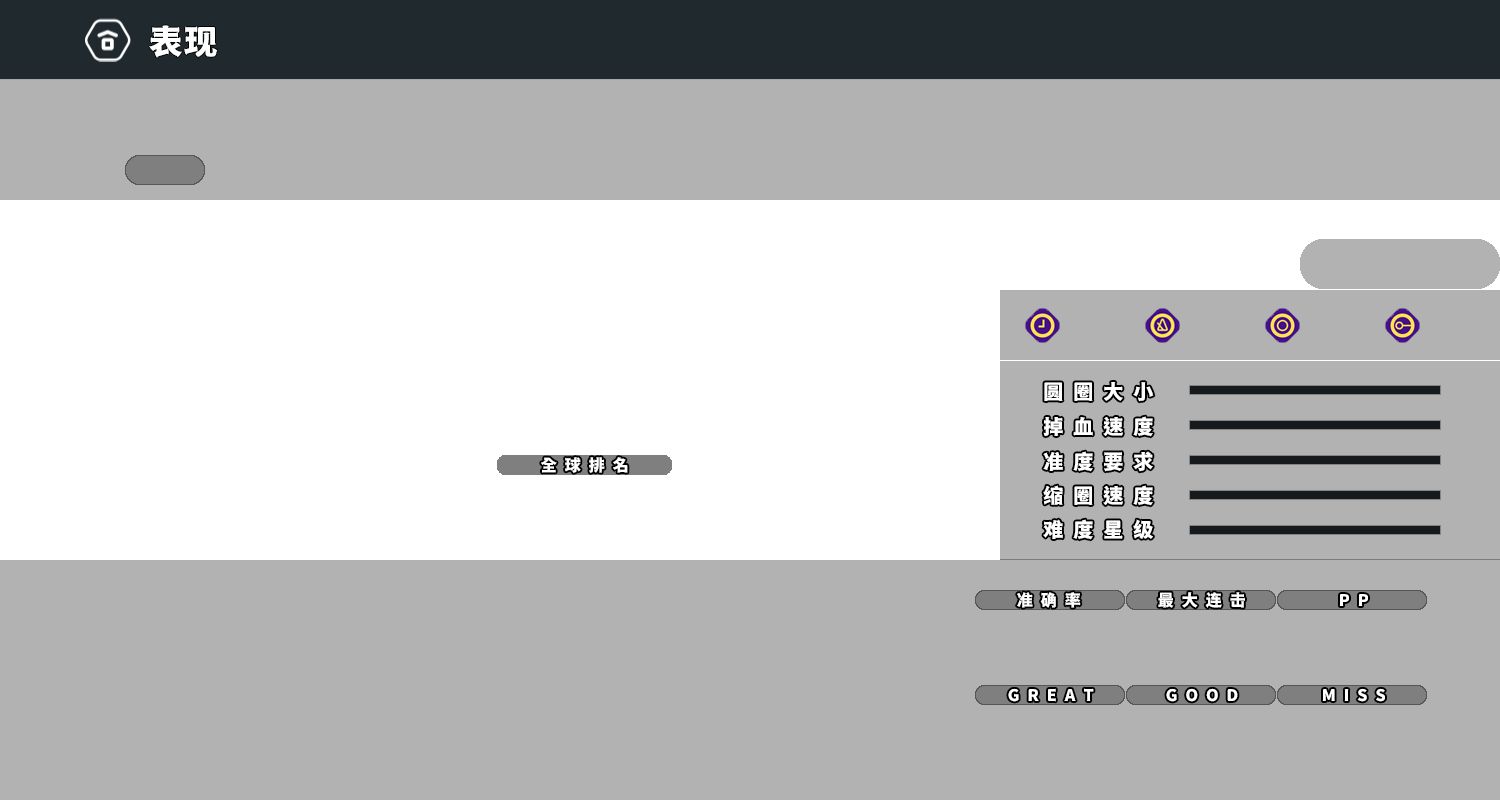
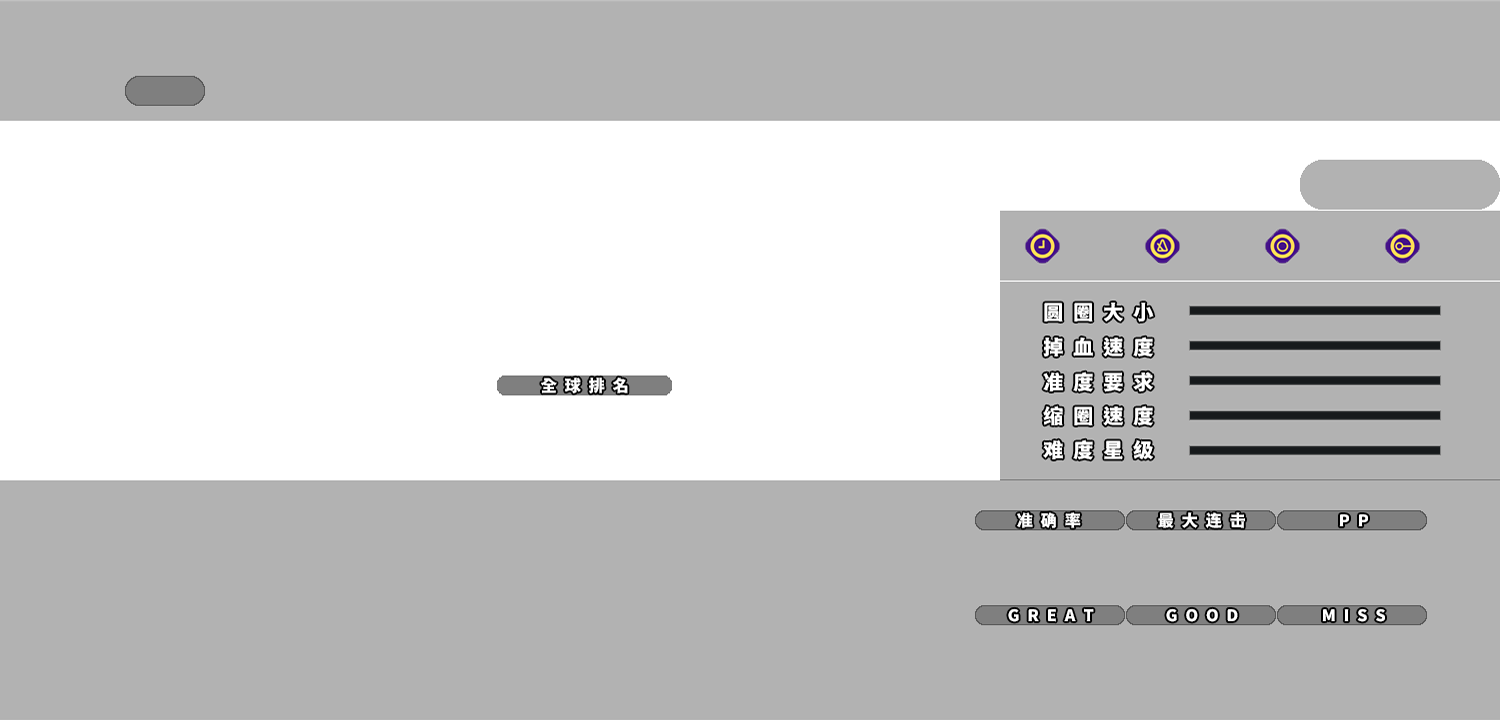
:sparkles: 去除pr、recent成绩图顶部大横条 (#19)
* 去除pr、recent成绩图顶部大横条

diff --git a/nonebot_plugin_osubot/draw/score.py b/nonebot_plugin_osubot/draw/score.py
@@ -67,7 +67,7 @@ async def draw_score(project: str,
     pp_info = cal_pp(score_info, str(osu.absolute()))
     if_pp, ss_pp = get_if_pp_ss_pp(score_info, str(osu.absolute()))
     # 新建图片
-    im = Image.new('RGBA', (1500, 800))
+    im = Image.new('RGBA', (1500, 720))
     # 获取cover并裁剪，高斯，降低亮度
     cover = re_map(osu)
     if cover == 'mapbg.png':
@@ -77,7 +77,7 @@ async def draw_score(project: str,
     cover_crop = crop_bg('BG', cover_path)
     cover_gb = cover_crop.filter(ImageFilter.GaussianBlur(1))
     cover_img = ImageEnhance.Brightness(cover_gb).enhance(2 / 4.0)
-    im.alpha_composite(cover_img, (0, 79))
+    im.alpha_composite(cover_img, (0, 0))
     # 获取成绩背景做底图
     bg = get_modeimage(FGM[score_info.mode])
     recent_bg = Image.open(bg).convert('RGBA')
@@ -85,11 +85,11 @@ async def draw_score(project: str,
     # 模式
     mode_bg = stars_diff(FGM[score_info.mode], pp_info.difficulty.stars)
     mode_img = mode_bg.resize((30, 30))
-    im.alpha_composite(mode_img, (75, 154))
+    im.alpha_composite(mode_img, (75, 74))
     # 难度星星
     stars_bg = stars_diff('stars', pp_info.difficulty.stars)
     stars_img = stars_bg.resize((23, 23))
-    im.alpha_composite(stars_img, (134, 158))
+    im.alpha_composite(stars_img, (134, 78))
     # mods
     if 'HD' in score_info.mods or 'FL' in score_info.mods:
         ranking = ['XH', 'SH', 'A', 'B', 'C', 'D', 'F']
@@ -99,7 +99,7 @@ async def draw_score(project: str,
         for mods_num, s_mods in enumerate(score_info.mods):
             mods_bg = osufile / 'mods' / f'{s_mods}.png'
             mods_img = Image.open(mods_bg).convert('RGBA')
-            im.alpha_composite(mods_img, (500 + 50 * mods_num, 240))
+            im.alpha_composite(mods_img, (500 + 50 * mods_num, 160))
     # 成绩S-F
     rank_ok = False
     for rank_num, i in enumerate(ranking):
@@ -115,7 +115,7 @@ async def draw_score(project: str,
         else:
             rank_bg = Image.open(rank_img).convert('RGBA').resize((48, 24))
             rank_ok = True
-        im.alpha_composite(rank_bg, (75, 243 + 39 * rank_num))
+        im.alpha_composite(rank_bg, (75, 163 + 39 * rank_num))
     # 成绩+acc
     im = draw_acc(im, score_info.accuracy, score_info.mode)
     # 头图
@@ -123,22 +123,22 @@ async def draw_score(project: str,
     headericon_gb = headericon_crop.filter(ImageFilter.GaussianBlur(1))
     headericon_img = ImageEnhance.Brightness(headericon_gb).enhance(2 / 4.0)
     headericon_d = draw_fillet(headericon_img, 15)
-    im.alpha_composite(headericon_d, (50, 591))
+    im.alpha_composite(headericon_d, (50, 511))
     # 头像
     icon_bg = Image.open(user_icon).convert('RGBA').resize((90, 90))
     icon_img = draw_fillet(icon_bg, 15)
-    im.alpha_composite(icon_img, (90, 606))
+    im.alpha_composite(icon_img, (90, 526))
     # 地区
     country = osufile / 'flags' / f'{score_info.user.country_code}.png'
     country_bg = Image.open(country).convert('RGBA').resize((58, 39))
-    im.alpha_composite(country_bg, (195, 606))
+    im.alpha_composite(country_bg, (195, 526))
     # 在线状态
     status = osufile / 'work' / ('on-line.png' if score_info.user.is_online else 'off-line.png')
     status_bg = Image.open(status).convert('RGBA').resize((45, 45))
-    im.alpha_composite(status_bg, (114, 712))
+    im.alpha_composite(status_bg, (114, 632))
     # supporter
     if score_info.user.is_supporter:
-        im.alpha_composite(SupporterBg.resize((40, 40)), (267, 606))
+        im.alpha_composite(SupporterBg.resize((40, 40)), (267, 526))
     # cs, ar, od, hp, stardiff
     mapdiff = [mapinfo.cs, mapinfo.drain, mapinfo.accuracy, mapinfo.ar, pp_info.difficulty.stars]
     for num, i in enumerate(mapdiff):
@@ -147,111 +147,111 @@ async def draw_score(project: str,
             color = (255, 204, 34, 255)
         diff_len = int(250 * i / 10) if i <= 10 else 250
         diff_len = Image.new('RGBA', (diff_len, 8), color)
-        im.alpha_composite(diff_len, (1190, 386 + 35 * num))
-        w_diff = DataText(1470, 386 + 35 * num, 20, f'{i:.1f}', Torus_SemiBold, anchor='mm')
+        im.alpha_composite(diff_len, (1190, 306 + 35 * num))
+        w_diff = DataText(1470, 306 + 35 * num, 20, f'{i:.1f}', Torus_SemiBold, anchor='mm')
         im = draw_text(im, w_diff)
     # 时长 - 滑条
     diff_info = calc_songlen(mapinfo.total_length), mapinfo.bpm, mapinfo.count_circles, mapinfo.count_sliders
     for num, i in enumerate(diff_info):
-        w_info = DataText(1070 + 120 * num, 325, 20, i, Torus_Regular, anchor='lm')
+        w_info = DataText(1070 + 120 * num, 245, 20, i, Torus_Regular, anchor='lm')
         im = draw_text(im, w_info, (255, 204, 34, 255))
     # 状态
-    w_status = DataText(1400, 264, 20, mapinfo.status.capitalize(), Torus_SemiBold, anchor='mm')
+    w_status = DataText(1400, 184, 20, mapinfo.status.capitalize(), Torus_SemiBold, anchor='mm')
     im = draw_text(im, w_status)
     # mapid
-    w_mapid = DataText(1425, 40, 27, f'Setid: {score_info.beatmap.beatmapset_id}  |  Mapid: {score_info.beatmap.id}',
+    w_mapid = DataText(1425, 89, 27, f'Setid: {score_info.beatmap.beatmapset_id}  |  Mapid: {score_info.beatmap.id}',
                        Torus_SemiBold, anchor='rm')
     im = draw_text(im, w_mapid)
     # 曲名
-    w_title = DataText(75, 118, 30, f'{mapinfo.beatmapset.title} | by {mapinfo.beatmapset.artist_unicode}',
+    w_title = DataText(75, 38, 30, f'{mapinfo.beatmapset.title} | by {mapinfo.beatmapset.artist_unicode}',
                        Torus_SemiBold, anchor='lm')
     im = draw_text(im, w_title)
     # 星级
-    w_diff = DataText(162, 169, 18, f'{pp_info.difficulty.stars:.1f}', Torus_SemiBold, anchor='lm')
+    w_diff = DataText(162, 89, 18, f'{pp_info.difficulty.stars:.1f}', Torus_SemiBold, anchor='lm')
     im = draw_text(im, w_diff)
     # 谱面版本，mapper
-    w_version = DataText(225, 169, 22, f'{mapinfo.version} | 谱面作者: {mapinfo.beatmapset.creator}', Torus_SemiBold,
+    w_version = DataText(225, 89, 22, f'{mapinfo.version} | 谱师: {mapinfo.beatmapset.creator}', Torus_SemiBold,
                          anchor='lm')
     im = draw_text(im, w_version)
     # 评价
-    w_rank = DataText(316, 387, 75, score_info.rank, Venera, anchor='mm')
+    w_rank = DataText(316, 307, 75, score_info.rank, Venera, anchor='mm')
     im = draw_text(im, w_rank)
     # 分数
-    w_score = DataText(498, 331, 75, f'{score_info.score:,}', Torus_Regular, anchor='lm')
+    w_score = DataText(498, 251, 75, f'{score_info.score:,}', Torus_Regular, anchor='lm')
     im = draw_text(im, w_score)
     # 玩家
-    w_played = DataText(498, 396, 18, '玩家:', Torus_SemiBold, anchor='lm')
+    w_played = DataText(498, 316, 18, '玩家:', Torus_SemiBold, anchor='lm')
     im = draw_text(im, w_played)
-    w_username = DataText(630, 396, 18, score_info.user.username, Torus_SemiBold, anchor='lm')
+    w_username = DataText(630, 316, 18, score_info.user.username, Torus_SemiBold, anchor='lm')
     im = draw_text(im, w_username)
     # 时间
-    w_date = DataText(498, 421, 18, '达成时间:', Torus_SemiBold, anchor='lm')
+    w_date = DataText(498, 341, 18, '达成时间:', Torus_SemiBold, anchor='lm')
     im = draw_text(im, w_date)
     old_time = datetime.strptime(score_info.created_at.replace('Z', ''), '%Y-%m-%dT%H:%M:%S')
     new_time = (old_time + timedelta(hours=8)).strftime('%Y-%m-%d %H:%M:%S')
-    w_time = DataText(630, 421, 18, new_time, Torus_SemiBold, anchor='lm')
+    w_time = DataText(630, 341, 18, new_time, Torus_SemiBold, anchor='lm')
     im = draw_text(im, w_time)
     # 全球排名
-    w_grank = DataText(583, 490, 24, grank, Torus_SemiBold, anchor='mm')
+    w_grank = DataText(583, 410, 24, grank, Torus_SemiBold, anchor='mm')
     im = draw_text(im, w_grank)
     # 左下玩家名
-    w_l_username = DataText(195, 670, 24, score_info.user.username, Torus_SemiBold, anchor='lm')
+    w_l_username = DataText(195, 590, 24, score_info.user.username, Torus_SemiBold, anchor='lm')
     im = draw_text(im, w_l_username)
     # 在线，离线
-    w_line = DataText(195, 732, 30, '在线' if score_info.user.is_online else '离线', Torus_SemiBold,
+    w_line = DataText(195, 652, 30, '在线' if score_info.user.is_online else '离线', Torus_SemiBold,
                       anchor='lm')
     im = draw_text(im, w_line)
     # acc,cb,pp,300,100,50,miss
     if score_info.mode == 'osu':
-        w_sspp = DataText(650, 630, 30, ss_pp, Torus_Regular, anchor='mm')
+        w_sspp = DataText(650, 550, 30, ss_pp, Torus_Regular, anchor='mm')
         im = draw_text(im, w_sspp)
-        w_ifpp = DataText(770, 630, 30, if_pp, Torus_Regular, anchor='mm')
+        w_ifpp = DataText(770, 550, 30, if_pp, Torus_Regular, anchor='mm')
         im = draw_text(im, w_ifpp)
-        w_pp = DataText(890, 630, 30, int(round(pp_info.pp, 0)), Torus_Regular, anchor='mm')
-        w_aimpp = DataText(650, 725, 30, int(round(pp_info.pp_aim, 0)), Torus_Regular, anchor='mm')
+        w_pp = DataText(890, 550, 30, int(round(pp_info.pp, 0)), Torus_Regular, anchor='mm')
+        w_aimpp = DataText(650, 645, 30, int(round(pp_info.pp_aim, 0)), Torus_Regular, anchor='mm')
         im = draw_text(im, w_aimpp)
-        w_spdpp = DataText(770, 725, 30, int(round(pp_info.pp_speed, 0)), Torus_Regular, anchor='mm')
+        w_spdpp = DataText(770, 645, 30, int(round(pp_info.pp_speed, 0)), Torus_Regular, anchor='mm')
         im = draw_text(im, w_spdpp)
-        w_accpp = DataText(890, 725, 30, int(round(pp_info.pp_acc, 0)), Torus_Regular, anchor='mm')
+        w_accpp = DataText(890, 645, 30, int(round(pp_info.pp_acc, 0)), Torus_Regular, anchor='mm')
         im = draw_text(im, w_accpp)
-        w_acc = DataText(1087, 630, 30, f'{score_info.accuracy * 100:.2f}%', Torus_Regular, anchor='mm')
-        w_maxcb = DataText(1315, 630, 30, f'{score_info.max_combo:,}/{mapinfo.max_combo:,}', Torus_Regular, anchor='mm')
-        w_300 = DataText(1030, 725, 30, score_info.statistics.count_300, Torus_Regular, anchor='mm')
-        w_100 = DataText(1144, 725, 30, score_info.statistics.count_100, Torus_Regular, anchor='mm')
-        w_50 = DataText(1258, 725, 30, score_info.statistics.count_50, Torus_Regular, anchor='mm')
+        w_acc = DataText(1087, 550, 30, f'{score_info.accuracy * 100:.2f}%', Torus_Regular, anchor='mm')
+        w_maxcb = DataText(1315, 550, 30, f'{score_info.max_combo:,}/{mapinfo.max_combo:,}', Torus_Regular, anchor='mm')
+        w_300 = DataText(1030, 645, 30, score_info.statistics.count_300, Torus_Regular, anchor='mm')
+        w_100 = DataText(1144, 645, 30, score_info.statistics.count_100, Torus_Regular, anchor='mm')
+        w_50 = DataText(1258, 645, 30, score_info.statistics.count_50, Torus_Regular, anchor='mm')
         im = draw_text(im, w_50)
-        w_miss = DataText(1372, 725, 30, score_info.statistics.count_miss, Torus_Regular, anchor='mm')
+        w_miss = DataText(1372, 645, 30, score_info.statistics.count_miss, Torus_Regular, anchor='mm')
     elif score_info.mode == 'taiko':
-        w_acc = DataText(1050, 630, 30, f'{score_info.accuracy * 100:.2f}%', Torus_Regular, anchor='mm')
-        w_maxcb = DataText(1202, 630, 30, f'{score_info.max_combo:,}/{mapinfo.max_combo:,}',
+        w_acc = DataText(1050, 550, 30, f'{score_info.accuracy * 100:.2f}%', Torus_Regular, anchor='mm')
+        w_maxcb = DataText(1202, 550, 30, f'{score_info.max_combo:,}/{mapinfo.max_combo:,}',
                            Torus_Regular, anchor='mm')
-        w_pp = DataText(1352, 630, 30, f'{int(round(pp_info.pp, 0))}/{ss_pp}', Torus_Regular, anchor='mm')
-        w_300 = DataText(1050, 725, 30, score_info.statistics.count_300, Torus_Regular, anchor='mm')
-        w_100 = DataText(1202, 725, 30, score_info.statistics.count_100, Torus_Regular, anchor='mm')
-        w_miss = DataText(1352, 725, 30, score_info.statistics.count_miss, Torus_Regular, anchor='mm')
+        w_pp = DataText(1352, 550, 30, f'{int(round(pp_info.pp, 0))}/{ss_pp}', Torus_Regular, anchor='mm')
+        w_300 = DataText(1050, 645, 30, score_info.statistics.count_300, Torus_Regular, anchor='mm')
+        w_100 = DataText(1202, 645, 30, score_info.statistics.count_100, Torus_Regular, anchor='mm')
+        w_miss = DataText(1352, 645, 30, score_info.statistics.count_miss, Torus_Regular, anchor='mm')
     elif score_info.mode == 'fruits':
-        w_acc = DataText(1016, 630, 30, f'{score_info.accuracy * 100:.2f}%', Torus_Regular, anchor='mm')
-        w_maxcb = DataText(1180, 630, 30, f'{score_info.max_combo:,}/{mapinfo.max_combo:,}',
+        w_acc = DataText(1016, 550, 30, f'{score_info.accuracy * 100:.2f}%', Torus_Regular, anchor='mm')
+        w_maxcb = DataText(1180, 550, 30, f'{score_info.max_combo:,}/{mapinfo.max_combo:,}',
                            Torus_Regular, anchor='mm')
-        w_pp = DataText(1344, 630, 30, f'{int(round(pp_info.pp, 0))}/{ss_pp}', Torus_Regular, anchor='mm')
-        w_300 = DataText(995, 725, 30, score_info.statistics.count_300, Torus_Regular, anchor='mm')
-        w_100 = DataText(1118, 725, 30, score_info.statistics.count_100, Torus_Regular, anchor='mm')
-        w_katu = DataText(1242, 725, 30, score_info.statistics.count_katu, Torus_Regular, anchor='mm')
+        w_pp = DataText(1344, 550, 30, f'{int(round(pp_info.pp, 0))}/{ss_pp}', Torus_Regular, anchor='mm')
+        w_300 = DataText(995, 645, 30, score_info.statistics.count_300, Torus_Regular, anchor='mm')
+        w_100 = DataText(1118, 645, 30, score_info.statistics.count_100, Torus_Regular, anchor='mm')
+        w_katu = DataText(1242, 645, 30, score_info.statistics.count_katu, Torus_Regular, anchor='mm')
         im = draw_text(im, w_katu)
-        w_miss = DataText(1365, 725, 30, score_info.statistics.count_miss, Torus_Regular, anchor='mm')
+        w_miss = DataText(1365, 645, 30, score_info.statistics.count_miss, Torus_Regular, anchor='mm')
     else:
-        w_acc = DataText(935, 630, 30, f'{score_info.accuracy * 100:.2f}%', Torus_Regular, anchor='mm')
-        w_maxcb = DataText(1130, 630, 30, f'{score_info.max_combo:,}', Torus_Regular, anchor='mm')
-        w_pp = DataText(1328, 630, 30, f'{int(round(pp_info.pp, 0))}/{ss_pp}', Torus_Regular, anchor='mm')
-        w_geki = DataText(886, 725, 30, score_info.statistics.count_geki, Torus_Regular, anchor='mm')
+        w_acc = DataText(935, 550, 30, f'{score_info.accuracy * 100:.2f}%', Torus_Regular, anchor='mm')
+        w_maxcb = DataText(1130, 550, 30, f'{score_info.max_combo:,}', Torus_Regular, anchor='mm')
+        w_pp = DataText(1328, 550, 30, f'{int(round(pp_info.pp, 0))}/{ss_pp}', Torus_Regular, anchor='mm')
+        w_geki = DataText(886, 645, 30, score_info.statistics.count_geki, Torus_Regular, anchor='mm')
         im = draw_text(im, w_geki)
-        w_300 = DataText(984, 725, 30, score_info.statistics.count_300, Torus_Regular, anchor='mm')
-        w_katu = DataText(1083, 725, 30, score_info.statistics.count_katu, Torus_Regular, anchor='mm')
+        w_300 = DataText(984, 645, 30, score_info.statistics.count_300, Torus_Regular, anchor='mm')
+        w_katu = DataText(1083, 645, 30, score_info.statistics.count_katu, Torus_Regular, anchor='mm')
         im = draw_text(im, w_katu)
-        w_100 = DataText(1182, 725, 30, score_info.statistics.count_100, Torus_Regular, anchor='mm')
-        w_50 = DataText(1280, 725, 30, score_info.statistics.count_50, Torus_Regular, anchor='mm')
+        w_100 = DataText(1182, 645, 30, score_info.statistics.count_100, Torus_Regular, anchor='mm')
+        w_50 = DataText(1280, 645, 30, score_info.statistics.count_50, Torus_Regular, anchor='mm')
         im = draw_text(im, w_50)
-        w_miss = DataText(1378, 725, 30, score_info.statistics.count_miss, Torus_Regular, anchor='mm')
+        w_miss = DataText(1378, 645, 30, score_info.statistics.count_miss, Torus_Regular, anchor='mm')
     im = draw_text(im, w_acc)
     im = draw_text(im, w_maxcb)
     im = draw_text(im, w_pp)

diff --git a/nonebot_plugin_osubot/draw/utils.py b/nonebot_plugin_osubot/draw/utils.py
@@ -94,9 +94,9 @@ def draw_acc(img: Image, acc: float, mode: str):
     color = ['#ff5858', '#ea7948', '#d99d03', '#72c904', '#0096a2', '#be0089']
     for s, c in zip(size, color):
         end = start + s / 100 * 360
-        draw.arc((195, 263, 435, 503), start, end, fill=c, width=5)
+        draw.arc((195, 183, 435, 423), start, end, fill=c, width=5)
         start = end
-    draw.arc((165, 233, 465, 533), -90, -90 + 360 * acc, fill='#66cbfd', width=27)
+    draw.arc((165, 153, 465, 453), -90, -90 + 360 * acc, fill='#66cbfd', width=27)
     return img
 
 
